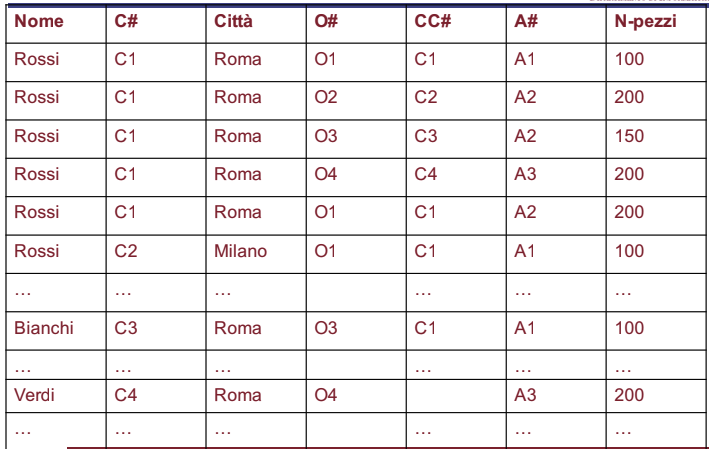
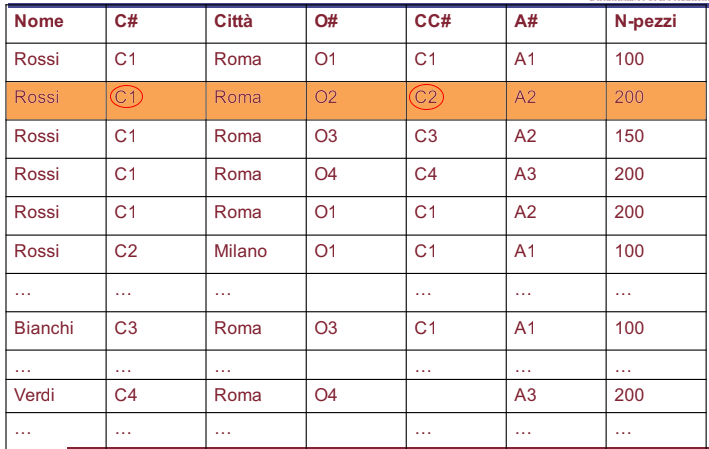
vault backup: 2024-10-02 20:23:01

Changed region(s): [[0.0, 0.1559, 1.0, 0.2806]]

diff --git a/Class/Basi di dati/Algebra relazionale.md b/Class/Basi di dati/Algebra relazionale.md
@@ -146,4 +146,43 @@ $$
 \text{Dati dei clienti e degli ordini}=(\text{Cliente}\times \text{OrdineR})
 $$
 ![[Screenshot 2024-10-02 alle 16.42.00.png|440]]
-Questa relazione però risulta essere sbagliata; ho infatti il $\text{Cliente}$ 
+Questa relazione però risulta essere sbagliata; ho infatti la seconda tupla ha due codici diversi per $\text{Cliente}$ e $\text{Ordine}$. Il che vuol dire che devo effettuare una selezione sul codice cliente
+$$
+\sigma_{\text{C\#}=\text{CC\#}}(\text{Cliente}\times \text{OrdineR})
+$$
+![[Screenshot 2024-10-02 alle 20.06.39.png|440]]
+A questo punto mi ritrovo sostanzialmente con un attributo duplicato. Lo rimuovo quindi con una proiezione
+$$
+\pi_{\text{Nome, C\#, Città, O\#, A\#, N-pezzi}}(\sigma_{\text{C\#}=\text{CC\#}}(\text{Cliente}\times \text{OrdineR}))
+$$
+![[Screenshot 2024-10-02 alle 20.08.46.png|440]]
+Adesso voglio rimuovere tutti gli elementi in cui il $\text{N-pezzi}$ è ≤ a 100
+$$
+\pi_{\text{Nome C\# Città O\# A\# N-pezzi}}(\sigma_{\text{C\#=CC\# }\land \text{ N-pezzi}>100}(\text{Cliente}\times \text{OrdineR}))
+$$
+![[Screenshot 2024-10-02 alle 20.10.02.png|440]]
+
+---
+## Join naturale
+Il join naturale consente di selezionare automatiche le tuple del prodotto cartesiano dei due operandi che soddisfano la condizione
+$$
+R_{1}\cdot A_{1}=R_{2}\cdot A_{1} \land R_{1}\cdot A_{2}=R_{2}\cdot A_{2}\land \dots \land R_{1}\cdot A_{k} = R_{2}\cdot A_{k}
+$$
+(dove $R_{1}$ ed $R_{2}$ sono i nomi delle relazioni operando e $A_{1}, A_{2}, \dots,A_{k}$ sono gli attributi comuni, cioè **con lo stesso nome**, delle relazioni operando) eliminando le ripetizioni degli attributi
+$$
+r_{1}\bowtie r_{2} = \pi_{\text{XY}}(\sigma_{\text{C}}(r_{1}\times r_{2}))
+$$
+dove:
+- $\text{C}$ → $R_{1}\cdot A_{1}=R_{2}\cdot A_{1}\land \dots \land R_{1}\cdot A_{k} = R_{2}\cdot A_{k}$
+- $\text{X}$ → è l’insieme di attributi di $r_{1}$
+- $\text{Y}$ → insieme di attributi di $r_{2}$ che non sono attributi di $r_{1}$
+
+> [!info]
+> Nel join naturale gli attributi della condizione che consente di unire solo le ennuple giuste che hanno lo **stesso nome**
+> Vengono unite le ennuple in cui questi attributi hanno lo **stesso valore**
+### Esempio
+![[Screenshot 2024-10-02 alle 16.58.41.png|440]]
+$$
+\text{Dati dei clienti e dei loro ordini} = \text{Cliente}\bowtie \text{Ordine}
+$$
+![[Screenshot 2024-10-02 alle 17.00.21.png|440]]
